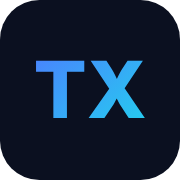
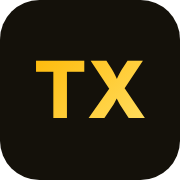
Switch site theme from blue to yellow
Dark and light themes, button text now dark on yellow, icons, theme-color.

Claude-Session: https://claude.ai/code/session_017NGmsAbAnVqRARzrEj6KQJ

Changed region(s): [[0.4722, 0.3333, 0.8056, 0.6667], [0.1944, 0.3333, 0.4722, 0.6667]]

diff --git a/assets/site.css b/assets/site.css
@@ -1,9 +1,9 @@
-:root{--sans:system-ui,-apple-system,BlinkMacSystemFont,"Segoe UI",Roboto,"Helvetica Neue","PingFang SC","Hiragino Sans GB","Microsoft YaHei","Noto Sans CJK SC",sans-serif;--bg:#050507;--glass:rgba(255,255,255,.055);--glass2:rgba(22,22,30,.72);--line:rgba(255,255,255,.11);--fg:#f5f5f7;--mut:#9a9aa8;--acc:#4c7dff;--acc2:#22d3ee;--ok:#30d158;--warn:#ff9f0a;--run:#ffd60a;--bad:#ff453a;--node:#0f1017;--hg1:#ffffff;--hg2:rgba(255,255,255,.5);--glow:rgba(76,125,255,.45);--grad:linear-gradient(135deg,#4c7dff 0%,#22d3ee 100%);--aur:1}
-html[data-theme=light]{--bg:#f5f5f7;--glass:rgba(255,255,255,.72);--glass2:rgba(255,255,255,.85);--line:rgba(0,0,0,.09);--fg:#1d1d1f;--mut:#6e6e73;--acc:#0071e3;--acc2:#00a3d9;--ok:#1fa045;--warn:#c76a00;--run:#a68500;--bad:#d70015;--node:#fff;--hg1:#1d1d1f;--hg2:rgba(29,29,31,.55);--glow:rgba(0,113,227,.3);--aur:.45}
+:root{--sans:system-ui,-apple-system,BlinkMacSystemFont,"Segoe UI",Roboto,"Helvetica Neue","PingFang SC","Hiragino Sans GB","Microsoft YaHei","Noto Sans CJK SC",sans-serif;--bg:#050507;--glass:rgba(255,255,255,.055);--glass2:rgba(22,22,30,.72);--line:rgba(255,255,255,.11);--fg:#f5f5f7;--mut:#9a9aa8;--acc:#ffc83d;--acc2:#ffe066;--on:#1d1d1f;--ok:#30d158;--warn:#ff9f0a;--run:#ffd60a;--bad:#ff453a;--node:#0f1017;--hg1:#ffffff;--hg2:rgba(255,255,255,.5);--glow:rgba(255,196,61,.4);--grad:linear-gradient(135deg,#ffb703 0%,#ffe066 100%);--aur:1}
+html[data-theme=light]{--bg:#f5f5f7;--glass:rgba(255,255,255,.72);--glass2:rgba(255,255,255,.85);--line:rgba(0,0,0,.09);--fg:#1d1d1f;--mut:#6e6e73;--acc:#8a5a00;--acc2:#9a6400;--ok:#1fa045;--warn:#c76a00;--run:#a68500;--bad:#d70015;--node:#fff;--hg1:#1d1d1f;--hg2:rgba(29,29,31,.55);--glow:rgba(255,184,0,.4);--grad:linear-gradient(135deg,#ffbe0b 0%,#ffe066 100%);--aur:.45}
 *{box-sizing:border-box}
 html{scroll-behavior:smooth}
 body{margin:0;color:var(--fg);background:var(--bg);font:16px/1.7 var(--sans);letter-spacing:-.011em;min-height:100vh;-webkit-font-smoothing:antialiased}
-body::before{content:"";position:fixed;inset:-20%;z-index:-2;opacity:var(--aur);background:radial-gradient(40% 35% at 18% 14%,rgba(76,125,255,.38),transparent 70%),radial-gradient(34% 30% at 82% 8%,rgba(34,211,238,.24),transparent 70%),radial-gradient(40% 40% at 62% 92%,rgba(168,85,247,.22),transparent 70%);filter:blur(30px);animation:drift 26s ease-in-out infinite alternate}
+body::before{content:"";position:fixed;inset:-20%;z-index:-2;opacity:var(--aur);background:radial-gradient(40% 35% at 18% 14%,rgba(255,183,3,.34),transparent 70%),radial-gradient(34% 30% at 82% 8%,rgba(255,224,102,.2),transparent 70%),radial-gradient(40% 40% at 62% 92%,rgba(255,138,0,.2),transparent 70%);filter:blur(30px);animation:drift 26s ease-in-out infinite alternate}
 body::after{content:"";position:fixed;inset:0;z-index:-1;background-image:linear-gradient(var(--line) 1px,transparent 1px),linear-gradient(90deg,var(--line) 1px,transparent 1px);background-size:64px 64px;-webkit-mask-image:radial-gradient(ellipse 80% 55% at 50% 0%,#000,transparent 75%);mask-image:radial-gradient(ellipse 80% 55% at 50% 0%,#000,transparent 75%);opacity:.55}
 @keyframes drift{to{transform:translate3d(4%,3%,0) scale(1.08)}}
 a{color:var(--acc)}
@@ -44,8 +44,8 @@ html[data-lang=zh] .en{display:none!important}
 .side h5{margin:16px 0 6px 10px;font-size:11px;color:var(--acc2);letter-spacing:.14em;text-transform:uppercase}
 .side a{display:block;padding:9px 12px;border-radius:12px;text-decoration:none;color:var(--fg);font-size:14.5px;line-height:1.4;margin-bottom:2px;transition:.2s}
 .side a:hover{background:var(--glass);transform:translateX(3px)}
-.side a.cur{background:var(--grad);color:#fff;font-weight:600}
-.side a.cur .zh{color:rgba(255,255,255,.8)}
+.side a.cur{background:var(--grad);color:var(--on);font-weight:600}
+.side a.cur .zh{color:rgba(29,29,31,.8)}
 .side .soon{display:block;padding:7px 12px;font-size:13.5px;line-height:1.4;color:var(--mut);opacity:.5}
 .side a.done::after{content:" ✓";color:var(--ok);font-weight:800}
 /* layout */
@@ -67,7 +67,7 @@ pre code{background:none;border:0;color:inherit;padding:0}
 .tag,.eyebrow{display:inline-block;font-size:11px;font-weight:700;letter-spacing:.16em;text-transform:uppercase;color:var(--acc2);background:var(--glass);border:1px solid var(--line);padding:6px 14px;border-radius:999px;margin-right:6px;backdrop-filter:blur(10px)}
 .stage{position:relative;overflow-x:clip;text-align:center;padding:90px 0 40px}
 .stage.compact{padding:70px 0 20px}
-.orb{position:absolute;left:50%;top:48%;width:min(620px,92vw);aspect-ratio:1;transform:translate(-50%,-50%);z-index:-1;border-radius:50%;background:conic-gradient(from 0deg,#4c7dff,#22d3ee,#a855f7,#4c7dff);filter:blur(70px);opacity:.42;animation:spin 18s linear infinite}
+.orb{position:absolute;left:50%;top:48%;width:min(620px,92vw);aspect-ratio:1;transform:translate(-50%,-50%);z-index:-1;border-radius:50%;background:conic-gradient(from 0deg,#ffb703,#ffe066,#ff8a00,#ffb703);filter:blur(70px);opacity:.42;animation:spin 18s linear infinite}
 html[data-theme=light] .orb{opacity:.25}
 @keyframes spin{to{transform:translate(-50%,-50%) rotate(360deg)}}
 .mega{font-size:clamp(2.8rem,9vw,6.4rem);line-height:1.02;letter-spacing:-.05em;font-weight:800;margin:.35em 0 .25em;background:linear-gradient(180deg,var(--hg1) 25%,var(--hg2));-webkit-background-clip:text;background-clip:text;color:transparent}
@@ -84,7 +84,7 @@ html[data-theme=light] .orb{opacity:.25}
 /* buttons */
 .btn{border:1px solid var(--line);background:var(--glass);color:var(--fg);border-radius:999px;padding:10px 20px;cursor:pointer;font:inherit;font-size:14.5px;font-weight:600;transition:.25s;text-decoration:none;display:inline-block;backdrop-filter:blur(10px)}
 .btn:hover{border-color:var(--acc);transform:translateY(-2px)}
-.btn.pri{background:var(--grad);color:#fff;border:0;box-shadow:0 10px 34px var(--glow)}
+.btn.pri{background:var(--grad);color:var(--on);border:0;box-shadow:0 10px 34px var(--glow)}
 .btn.pri:hover{box-shadow:0 14px 44px var(--glow)}
 .btn.big{padding:14px 30px;font-size:16px}
 .btn:disabled{opacity:.35;cursor:default;transform:none}
@@ -92,7 +92,7 @@ html[data-theme=light] .orb{opacity:.25}
 .card,.callout,.quiz,.stepper,.wfwrap,.lcard,.cc,.panel{position:relative;background:var(--glass);border:1px solid var(--line);border-radius:22px;backdrop-filter:blur(18px);-webkit-backdrop-filter:blur(18px)}
 .spot{overflow:hidden}
 .spot::after{content:"";position:absolute;inset:0;pointer-events:none;opacity:0;transition:.3s;background:radial-gradient(380px circle at var(--mx,50%) var(--my,50%),rgba(255,255,255,.09),transparent 45%)}
-html[data-theme=light] .spot::after{background:radial-gradient(380px circle at var(--mx,50%) var(--my,50%),rgba(0,113,227,.09),transparent 45%)}
+html[data-theme=light] .spot::after{background:radial-gradient(380px circle at var(--mx,50%) var(--my,50%),rgba(255,184,0,.12),transparent 45%)}
 .spot:hover::after{opacity:1}
 .card{padding:20px 22px;margin:1.3em 0}
 .callout{--c:var(--acc);padding:16px 20px;margin:1.5em 0;border-left:3px solid var(--c);border-radius:6px 22px 22px 6px;background:color-mix(in srgb,var(--c) 9%,var(--glass))}
@@ -106,8 +106,8 @@ html[data-theme=light] .spot::after{background:radial-gradient(380px circle at v
 .flip .front,.flip .back{position:absolute;inset:0;backface-visibility:hidden;border-radius:22px;padding:18px;display:flex;flex-direction:column;justify-content:center;align-items:center;text-align:center;overflow:auto}
 .flip .front{background:var(--glass);border:1px solid var(--line);backdrop-filter:blur(18px)}
 .flip .front .ic{font-size:2.1rem;margin-bottom:6px}
-.flip .back{background:var(--grad);color:#fff;transform:rotateY(180deg);font-size:.95rem;box-shadow:0 14px 40px var(--glow)}
-.flip .back .zh{color:rgba(255,255,255,.85)!important}
+.flip .back{background:var(--grad);color:var(--on);transform:rotateY(180deg);font-size:.95rem;box-shadow:0 14px 40px var(--glow)}
+.flip .back .zh{color:rgba(29,29,31,.8)!important}
 .flip small{color:var(--mut);margin-top:6px;font-size:11px;letter-spacing:.1em;text-transform:uppercase}
 .quiz{padding:20px 22px;margin:1.4em 0}
 .quiz .q{font-weight:700;font-size:1.08rem;margin:0 0 12px}
@@ -193,12 +193,12 @@ details{background:var(--glass);border:1px solid var(--line);border-radius:16px;
 .panel{padding:14px 16px;min-height:160px;font-size:14px;border-radius:18px;background:color-mix(in srgb,var(--bg) 60%,transparent)}
 .panel h5,.panel .ph{margin:0 0 8px;font-size:11px;letter-spacing:.16em;text-transform:uppercase;color:var(--mut)}
 .bub{padding:9px 14px;border-radius:16px;margin:6px 0;max-width:92%;animation:fade .3s}
-.bub.u{background:var(--grad);color:#fff;margin-left:auto;border-bottom-right-radius:4px}
+.bub.u{background:var(--grad);color:var(--on);margin-left:auto;border-bottom-right-radius:4px}
 .bub.a{background:var(--glass);border:1px solid var(--line);border-bottom-left-radius:4px}
 .bub .zh{color:inherit!important;opacity:.8}
 .logl{display:flex;justify-content:space-between;gap:8px;padding:6px 0;border-bottom:1px dashed var(--line);animation:fade .3s;font:13px/1.4 ui-monospace,"SF Mono",Menlo,monospace}
 .logl b{color:var(--ok)}.logl span:last-child{color:var(--mut);white-space:nowrap}
-.role{display:inline-block;font-size:11px;font-weight:800;letter-spacing:.14em;padding:3px 11px;border-radius:99px;background:var(--grad);color:#fff;text-transform:uppercase;margin-bottom:6px}
+.role{display:inline-block;font-size:11px;font-weight:800;letter-spacing:.14em;padding:3px 11px;border-radius:99px;background:var(--grad);color:var(--on);text-transform:uppercase;margin-bottom:6px}
 .pc{position:fixed;z-index:99;pointer-events:none;font-size:20px;animation:pc 1s ease-out forwards}
 @keyframes pc{to{transform:translate(var(--dx),var(--dy)) rotate(var(--r));opacity:0}}
 @media(max-width:720px){.cc{grid-template-columns:auto 1fr}.cc .go{display:none}.wfgrid{grid-template-columns:1fr}main{padding:20px 16px 150px}.top{padding:0 14px}.stage{padding:60px 0 20px}}

diff --git a/agentic-ai/04-many-models.html b/agentic-ai/04-many-models.html
@@ -1,6 +1,6 @@
 <!doctype html><html lang="en"><head><meta charset="utf-8"><meta name="viewport" content="width=device-width,initial-scale=1">
 <title>Many models, one API | TX Learns</title>
-<meta name="description" content="Choose the right model, call any provider with the same code, let a model judge the rest."><meta property="og:title" content="Many models, one API | TX Learns"><meta property="og:description" content="Choose the right model, call any provider with the same code, let a model judge the rest."><meta property="og:type" content="website"><meta property="og:url" content="https://tx-learns.vercel.app/agentic-ai/04-many-models.html"><meta property="og:image" content="https://tx-learns.vercel.app/assets/og.png"><meta name="twitter:card" content="summary_large_image"><meta name="theme-color" content="#0b1020">
+<meta name="description" content="Choose the right model, call any provider with the same code, let a model judge the rest."><meta property="og:title" content="Many models, one API | TX Learns"><meta property="og:description" content="Choose the right model, call any provider with the same code, let a model judge the rest."><meta property="og:type" content="website"><meta property="og:url" content="https://tx-learns.vercel.app/agentic-ai/04-many-models.html"><meta property="og:image" content="https://tx-learns.vercel.app/assets/og.png"><meta name="twitter:card" content="summary_large_image"><meta name="theme-color" content="#14110a">
 <meta name="updated" content="2026-11-23">
 <link rel="icon" href="../assets/icon.svg" type="image/svg+xml"><link rel="apple-touch-icon" href="../assets/apple-touch-icon.png"><link rel="stylesheet" href="../assets/site.css">
 <style>
@@ -23,7 +23,7 @@
 .codeln.miss{border-color:var(--warn);border-style:dashed}
 .codebox{background:#0b0b10;color:#e8e8f0;border:1px solid var(--line);border-radius:18px;padding:16px 18px;font:13.5px/1.75 ui-monospace,"SF Mono",Menlo,monospace;white-space:pre-wrap;word-break:break-word;overflow:auto}
 .codebox .dim{opacity:.45}
-.codebox .chg{color:#fff;background:linear-gradient(135deg,rgba(76,125,255,.55),rgba(34,211,238,.45));border-radius:6px;padding:1px 5px}
+.codebox .chg{color:#fff;background:linear-gradient(135deg,rgba(255,183,3,.5),rgba(255,138,0,.4));border-radius:6px;padding:1px 5px}
 .pills{display:flex;flex-wrap:wrap;gap:8px;margin:12px 0}
 .pill{border:1px solid var(--line);background:var(--glass);color:var(--fg);border-radius:999px;padding:8px 16px;cursor:pointer;font:inherit;font-size:13.5px;font-weight:600;transition:.2s}
 .pill:hover{border-color:var(--acc)}.pill.on{background:var(--fg);color:var(--bg)}

diff --git a/agentic-ai/17-personal-helper-that-remembers.html b/agentic-ai/17-personal-helper-that-remembers.html
@@ -1,6 +1,6 @@
 <!doctype html><html lang="en"><head><meta charset="utf-8"><meta name="viewport" content="width=device-width,initial-scale=1">
 <title>Project: a personal helper that remembers | TX Learns</title>
-<meta name="description" content="Build Kaki: a helper that runs errands, asks before it acts, and has a checker that decides when the job is really done."><meta property="og:title" content="Project: a personal helper that remembers | TX Learns"><meta property="og:description" content="Build Kaki: a helper that runs errands, asks before it acts, and has a checker that decides when the job is really done."><meta property="og:type" content="website"><meta property="og:url" content="https://tx-learns.vercel.app/agentic-ai/17-personal-helper-that-remembers.html"><meta property="og:image" content="https://tx-learns.vercel.app/assets/og.png"><meta name="twitter:card" content="summary_large_image"><meta name="theme-color" content="#0b1020">
+<meta name="description" content="Build Kaki: a helper that runs errands, asks before it acts, and has a checker that decides when the job is really done."><meta property="og:title" content="Project: a personal helper that remembers | TX Learns"><meta property="og:description" content="Build Kaki: a helper that runs errands, asks before it acts, and has a checker that decides when the job is really done."><meta property="og:type" content="website"><meta property="og:url" content="https://tx-learns.vercel.app/agentic-ai/17-personal-helper-that-remembers.html"><meta property="og:image" content="https://tx-learns.vercel.app/assets/og.png"><meta name="twitter:card" content="summary_large_image"><meta name="theme-color" content="#14110a">
 <meta name="updated" content="2026-11-23">
 <link rel="icon" href="../assets/icon.svg" type="image/svg+xml"><link rel="apple-touch-icon" href="../assets/apple-touch-icon.png"><link rel="stylesheet" href="../assets/site.css"><link rel="stylesheet" href="../assets/teach.css"></head><body>
 <div class="wrap"><nav class="side"></nav><main>

diff --git a/agentic-ai/16-graph-memory-tools-search.html b/agentic-ai/16-graph-memory-tools-search.html
@@ -1,6 +1,6 @@
 <!doctype html><html lang="en"><head><meta charset="utf-8"><meta name="viewport" content="width=device-width,initial-scale=1">
 <title>Memory, tools and web search in a graph | TX Learns</title>
-<meta name="description" content="One line gives you a tool-using agent with memory. For a big research job, a deep agent plans, searches and delegates."><meta property="og:title" content="Memory, tools and web search in a graph | TX Learns"><meta property="og:description" content="One line gives you a tool-using agent with memory. For a big research job, a deep agent plans, searches and delegates."><meta property="og:type" content="website"><meta property="og:url" content="https://tx-learns.vercel.app/agentic-ai/16-graph-memory-tools-search.html"><meta property="og:image" content="https://tx-learns.vercel.app/assets/og.png"><meta name="twitter:card" content="summary_large_image"><meta name="theme-color" content="#0b1020">
+<meta name="description" content="One line gives you a tool-using agent with memory. For a big research job, a deep agent plans, searches and delegates."><meta property="og:title" content="Memory, tools and web search in a graph | TX Learns"><meta property="og:description" content="One line gives you a tool-using agent with memory. For a big research job, a deep agent plans, searches and delegates."><meta property="og:type" content="website"><meta property="og:url" content="https://tx-learns.vercel.app/agentic-ai/16-graph-memory-tools-search.html"><meta property="og:image" content="https://tx-learns.vercel.app/assets/og.png"><meta name="twitter:card" content="summary_large_image"><meta name="theme-color" content="#14110a">
 <meta name="updated" content="2026-11-23">
 <link rel="icon" href="../assets/icon.svg" type="image/svg+xml"><link rel="apple-touch-icon" href="../assets/apple-touch-icon.png"><link rel="stylesheet" href="../assets/site.css"><link rel="stylesheet" href="../assets/teach.css"></head><body>
 <div class="wrap"><nav class="side"></nav><main>

diff --git a/agentic-ai/24-paper-trading.html b/agentic-ai/24-paper-trading.html
@@ -1,6 +1,6 @@
 <!doctype html><html lang="en"><head><meta charset="utf-8"><meta name="viewport" content="width=device-width,initial-scale=1">
 <title>Project: a paper-trading simulation | TX Learns</title>
-<meta name="description" content="Four agent uncles trade pretend money through MCP servers, on a timer, while a dashboard shows who is winning."><meta property="og:title" content="Project: a paper-trading simulation | TX Learns"><meta property="og:description" content="Four agent uncles trade pretend money through MCP servers, on a timer, while a dashboard shows who is winning."><meta property="og:type" content="website"><meta property="og:url" content="https://tx-learns.vercel.app/agentic-ai/24-paper-trading.html"><meta property="og:image" content="https://tx-learns.vercel.app/assets/og.png"><meta name="twitter:card" content="summary_large_image"><meta name="theme-color" content="#0b1020">
+<meta name="description" content="Four agent uncles trade pretend money through MCP servers, on a timer, while a dashboard shows who is winning."><meta property="og:title" content="Project: a paper-trading simulation | TX Learns"><meta property="og:description" content="Four agent uncles trade pretend money through MCP servers, on a timer, while a dashboard shows who is winning."><meta property="og:type" content="website"><meta property="og:url" content="https://tx-learns.vercel.app/agentic-ai/24-paper-trading.html"><meta property="og:image" content="https://tx-learns.vercel.app/assets/og.png"><meta name="twitter:card" content="summary_large_image"><meta name="theme-color" content="#14110a">
 <meta name="updated" content="2026-11-23">
 <link rel="icon" href="../assets/icon.svg" type="image/svg+xml"><link rel="apple-touch-icon" href="../assets/apple-touch-icon.png"><link rel="stylesheet" href="../assets/site.css"><link rel="stylesheet" href="../assets/teach.css"></head><body>
 <div class="wrap"><nav class="side"></nav><main>

diff --git a/agentic-ai/20-own-agent-loop.html b/agentic-ai/20-own-agent-loop.html
@@ -1,6 +1,6 @@
 <!doctype html><html lang="en"><head><meta charset="utf-8"><meta name="viewport" content="width=device-width,initial-scale=1">
 <title>Project: write your own agent loop | TX Learns</title>
-<meta name="description" content="You build a coordinator agent that runs five workers, checks their pages in a browser and finishes on its own."><meta property="og:title" content="Project: write your own agent loop | TX Learns"><meta property="og:description" content="You build a coordinator agent that runs five workers, checks their pages in a browser and finishes on its own."><meta property="og:type" content="website"><meta property="og:url" content="https://tx-learns.vercel.app/agentic-ai/20-own-agent-loop.html"><meta property="og:image" content="https://tx-learns.vercel.app/assets/og.png"><meta name="twitter:card" content="summary_large_image"><meta name="theme-color" content="#0b1020">
+<meta name="description" content="You build a coordinator agent that runs five workers, checks their pages in a browser and finishes on its own."><meta property="og:title" content="Project: write your own agent loop | TX Learns"><meta property="og:description" content="You build a coordinator agent that runs five workers, checks their pages in a browser and finishes on its own."><meta property="og:type" content="website"><meta property="og:url" content="https://tx-learns.vercel.app/agentic-ai/20-own-agent-loop.html"><meta property="og:image" content="https://tx-learns.vercel.app/assets/og.png"><meta name="twitter:card" content="summary_large_image"><meta name="theme-color" content="#14110a">
 <meta name="updated" content="2026-11-23">
 <link rel="icon" href="../assets/icon.svg" type="image/svg+xml"><link rel="apple-touch-icon" href="../assets/apple-touch-icon.png"><link rel="stylesheet" href="../assets/site.css"><link rel="stylesheet" href="../assets/teach.css"></head><body>
 <div class="wrap"><nav class="side"></nav><main>

diff --git a/agentic-ai/13-market-research-team.html b/agentic-ai/13-market-research-team.html
@@ -1,6 +1,6 @@
 <!doctype html><html lang="en"><head><meta charset="utf-8"><meta name="viewport" content="width=device-width,initial-scale=1">
 <title>Project: a market research team | TX Learns</title>
-<meta name="description" content="Build a crew with a manager that searches the web, studies each option and pings your phone with one pick."><meta property="og:title" content="Project: a market research team | TX Learns"><meta property="og:description" content="Build a crew with a manager that searches the web, studies each option and pings your phone with one pick."><meta property="og:type" content="website"><meta property="og:url" content="https://tx-learns.vercel.app/agentic-ai/13-market-research-team.html"><meta property="og:image" content="https://tx-learns.vercel.app/assets/og.png"><meta name="twitter:card" content="summary_large_image"><meta name="theme-color" content="#0b1020">
+<meta name="description" content="Build a crew with a manager that searches the web, studies each option and pings your phone with one pick."><meta property="og:title" content="Project: a market research team | TX Learns"><meta property="og:description" content="Build a crew with a manager that searches the web, studies each option and pings your phone with one pick."><meta property="og:type" content="website"><meta property="og:url" content="https://tx-learns.vercel.app/agentic-ai/13-market-research-team.html"><meta property="og:image" content="https://tx-learns.vercel.app/assets/og.png"><meta name="twitter:card" content="summary_large_image"><meta name="theme-color" content="#14110a">
 <meta name="updated" content="2026-11-23">
 <link rel="icon" href="../assets/icon.svg" type="image/svg+xml"><link rel="apple-touch-icon" href="../assets/apple-touch-icon.png"><link rel="stylesheet" href="../assets/site.css"><link rel="stylesheet" href="../assets/teach.css"></head><body>
 <div class="wrap"><nav class="side"></nav><main>

diff --git a/agentic-ai/09-outreach-email-helper.html b/agentic-ai/09-outreach-email-helper.html
@@ -1,6 +1,6 @@
 <!doctype html><html lang="en"><head><meta charset="utf-8"><meta name="viewport" content="width=device-width,initial-scale=1">
 <title>Project: an outreach email helper | TX Learns</title>
-<meta name="description" content="You build the same agent team twice, once with your code as the boss and once with an LLM as the boss."><meta property="og:title" content="Project: an outreach email helper | TX Learns"><meta property="og:description" content="You build the same agent team twice, once with your code as the boss and once with an LLM as the boss."><meta property="og:type" content="website"><meta property="og:url" content="https://tx-learns.vercel.app/agentic-ai/09-outreach-email-helper.html"><meta property="og:image" content="https://tx-learns.vercel.app/assets/og.png"><meta name="twitter:card" content="summary_large_image"><meta name="theme-color" content="#0b1020">
+<meta name="description" content="You build the same agent team twice, once with your code as the boss and once with an LLM as the boss."><meta property="og:title" content="Project: an outreach email helper | TX Learns"><meta property="og:description" content="You build the same agent team twice, once with your code as the boss and once with an LLM as the boss."><meta property="og:type" content="website"><meta property="og:url" content="https://tx-learns.vercel.app/agentic-ai/09-outreach-email-helper.html"><meta property="og:image" content="https://tx-learns.vercel.app/assets/og.png"><meta name="twitter:card" content="summary_large_image"><meta name="theme-color" content="#14110a">
 <meta name="updated" content="2026-11-21">
 <link rel="icon" href="../assets/icon.svg" type="image/svg+xml"><link rel="apple-touch-icon" href="../assets/apple-touch-icon.png"><link rel="stylesheet" href="../assets/site.css"><link rel="stylesheet" href="../assets/teach.css"></head><body>
 <div class="wrap"><nav class="side"></nav><main>

diff --git a/agentic-ai/14-coding-team.html b/agentic-ai/14-coding-team.html
@@ -1,6 +1,6 @@
 <!doctype html><html lang="en"><head><meta charset="utf-8"><meta name="viewport" content="width=device-width,initial-scale=1">
 <title>Project: a team that writes code | TX Learns</title>
-<meta name="description" content="Four agents design, build, put a screen on and test a small app, running their own code inside a safe box."><meta property="og:title" content="Project: a team that writes code | TX Learns"><meta property="og:description" content="Four agents design, build, put a screen on and test a small app, running their own code inside a safe box."><meta property="og:type" content="website"><meta property="og:url" content="https://tx-learns.vercel.app/agentic-ai/14-coding-team.html"><meta property="og:image" content="https://tx-learns.vercel.app/assets/og.png"><meta name="twitter:card" content="summary_large_image"><meta name="theme-color" content="#0b1020">
+<meta name="description" content="Four agents design, build, put a screen on and test a small app, running their own code inside a safe box."><meta property="og:title" content="Project: a team that writes code | TX Learns"><meta property="og:description" content="Four agents design, build, put a screen on and test a small app, running their own code inside a safe box."><meta property="og:type" content="website"><meta property="og:url" content="https://tx-learns.vercel.app/agentic-ai/14-coding-team.html"><meta property="og:image" content="https://tx-learns.vercel.app/assets/og.png"><meta name="twitter:card" content="summary_large_image"><meta name="theme-color" content="#14110a">
 <meta name="updated" content="2026-11-23">
 <link rel="icon" href="../assets/icon.svg" type="image/svg+xml"><link rel="apple-touch-icon" href="../assets/apple-touch-icon.png"><link rel="stylesheet" href="../assets/site.css"><link rel="stylesheet" href="../assets/teach.css"></head><body>
 <div class="wrap"><nav class="side"></nav><main>

diff --git a/agentic-ai/15-agents-as-graphs.html b/agentic-ai/15-agents-as-graphs.html
@@ -1,6 +1,6 @@
 <!doctype html><html lang="en"><head><meta charset="utf-8"><meta name="viewport" content="width=device-width,initial-scale=1">
 <title>Agents as graphs | TX Learns</title>
-<meta name="description" content="A graph is just functions on a shared pad, joined by arrows. Build one with state, nodes, edges, loops and memory."><meta property="og:title" content="Agents as graphs | TX Learns"><meta property="og:description" content="A graph is just functions on a shared pad, joined by arrows. Build one with state, nodes, edges, loops and memory."><meta property="og:type" content="website"><meta property="og:url" content="https://tx-learns.vercel.app/agentic-ai/15-agents-as-graphs.html"><meta property="og:image" content="https://tx-learns.vercel.app/assets/og.png"><meta name="twitter:card" content="summary_large_image"><meta name="theme-color" content="#0b1020">
+<meta name="description" content="A graph is just functions on a shared pad, joined by arrows. Build one with state, nodes, edges, loops and memory."><meta property="og:title" content="Agents as graphs | TX Learns"><meta property="og:description" content="A graph is just functions on a shared pad, joined by arrows. Build one with state, nodes, edges, loops and memory."><meta property="og:type" content="website"><meta property="og:url" content="https://tx-learns.vercel.app/agentic-ai/15-agents-as-graphs.html"><meta property="og:image" content="https://tx-learns.vercel.app/assets/og.png"><meta name="twitter:card" content="summary_large_image"><meta name="theme-color" content="#14110a">
 <meta name="updated" content="2026-11-23">
 <link rel="icon" href="../assets/icon.svg" type="image/svg+xml"><link rel="apple-touch-icon" href="../assets/apple-touch-icon.png"><link rel="stylesheet" href="../assets/site.css"><link rel="stylesheet" href="../assets/teach.css"></head><body>
 <div class="wrap"><nav class="side"></nav><main>

diff --git a/agentic-ai/23-many-mcp-servers.html b/agentic-ai/23-many-mcp-servers.html
@@ -1,6 +1,6 @@
 <!doctype html><html lang="en"><head><meta charset="utf-8"><meta name="viewport" content="width=device-width,initial-scale=1">
 <title>Many MCP servers, local and remote | TX Learns</title>
-<meta name="description" content="Give one agent four kinds of context from several MCP servers, and keep its tool list under control."><meta property="og:title" content="Many MCP servers, local and remote | TX Learns"><meta property="og:description" content="Give one agent four kinds of context from several MCP servers, and keep its tool list under control."><meta property="og:type" content="website"><meta property="og:url" content="https://tx-learns.vercel.app/agentic-ai/23-many-mcp-servers.html"><meta property="og:image" content="https://tx-learns.vercel.app/assets/og.png"><meta name="twitter:card" content="summary_large_image"><meta name="theme-color" content="#0b1020">
+<meta name="description" content="Give one agent four kinds of context from several MCP servers, and keep its tool list under control."><meta property="og:title" content="Many MCP servers, local and remote | TX Learns"><meta property="og:description" content="Give one agent four kinds of context from several MCP servers, and keep its tool list under control."><meta property="og:type" content="website"><meta property="og:url" content="https://tx-learns.vercel.app/agentic-ai/23-many-mcp-servers.html"><meta property="og:image" content="https://tx-learns.vercel.app/assets/og.png"><meta name="twitter:card" content="summary_large_image"><meta name="theme-color" content="#14110a">
 <meta name="updated" content="2026-11-23">
 <link rel="icon" href="../assets/icon.svg" type="image/svg+xml"><link rel="apple-touch-icon" href="../assets/apple-touch-icon.png"><link rel="stylesheet" href="../assets/site.css"><link rel="stylesheet" href="../assets/teach.css"></head><body>
 <div class="wrap"><nav class="side"></nav><main>

diff --git a/assets/teach.css b/assets/teach.css
@@ -6,7 +6,7 @@
 .pill.no{border-color:var(--bad);animation:shake .35s}
 .codebox{background:#0b0b10;color:#e8e8f0;border:1px solid var(--line);border-radius:18px;padding:16px 18px;font:13.5px/1.75 ui-monospace,"SF Mono",Menlo,monospace;white-space:pre-wrap;word-break:break-word;overflow:auto;margin:10px 0}
 .codebox .dim{opacity:.45}
-.codebox .chg{color:#fff;background:linear-gradient(135deg,rgba(76,125,255,.55),rgba(34,211,238,.45));border-radius:6px;padding:1px 5px}
+.codebox .chg{color:#fff;background:linear-gradient(135deg,rgba(255,183,3,.5),rgba(255,138,0,.4));border-radius:6px;padding:1px 5px}
 .io{background:#0b0b10;color:#e8e8f0;border:1px solid var(--line);border-radius:14px;padding:12px 14px;font:13px/1.55 ui-monospace,"SF Mono",Menlo,monospace;white-space:pre-wrap;word-break:break-word;margin:6px 0}
 .io.re{background:color-mix(in srgb,var(--bg) 60%,transparent);color:var(--fg);font-family:inherit;font-size:14.5px}
 .io mark{background:color-mix(in srgb,var(--acc2) 30%,transparent);color:inherit;border-radius:4px;padding:0 3px}
@@ -88,7 +88,7 @@
 .log{border:1px solid var(--line);border-radius:16px;background:#0b0b10;color:#e8e8f0;padding:12px 14px;margin:10px 0;font-size:14px;min-height:48px}
 .log div{padding:5px 0;border-bottom:1px solid rgba(255,255,255,.07)}.log div:last-child{border:0}
 .log i{display:inline-block;min-width:74px;font-style:normal;font-size:11px;letter-spacing:.1em;text-transform:uppercase;font-weight:800;margin-right:8px}
-.log .you i{color:#7aa2ff}.log .llm i{color:#22d3ee}.log .code i{color:#f6c453}.log .tool i{color:#7be08a}
+.log .you i{color:#7aa2ff}.log .llm i{color:#ffe066}.log .code i{color:#f6c453}.log .tool i{color:#7be08a}
 .log code{background:rgba(255,255,255,.1)}
 .runbtn{margin:6px 0}.runout{display:none}.runout.show{display:block;animation:fade .3s}
 .pill.try2{animation:shake .35s;border-color:var(--bad)}
